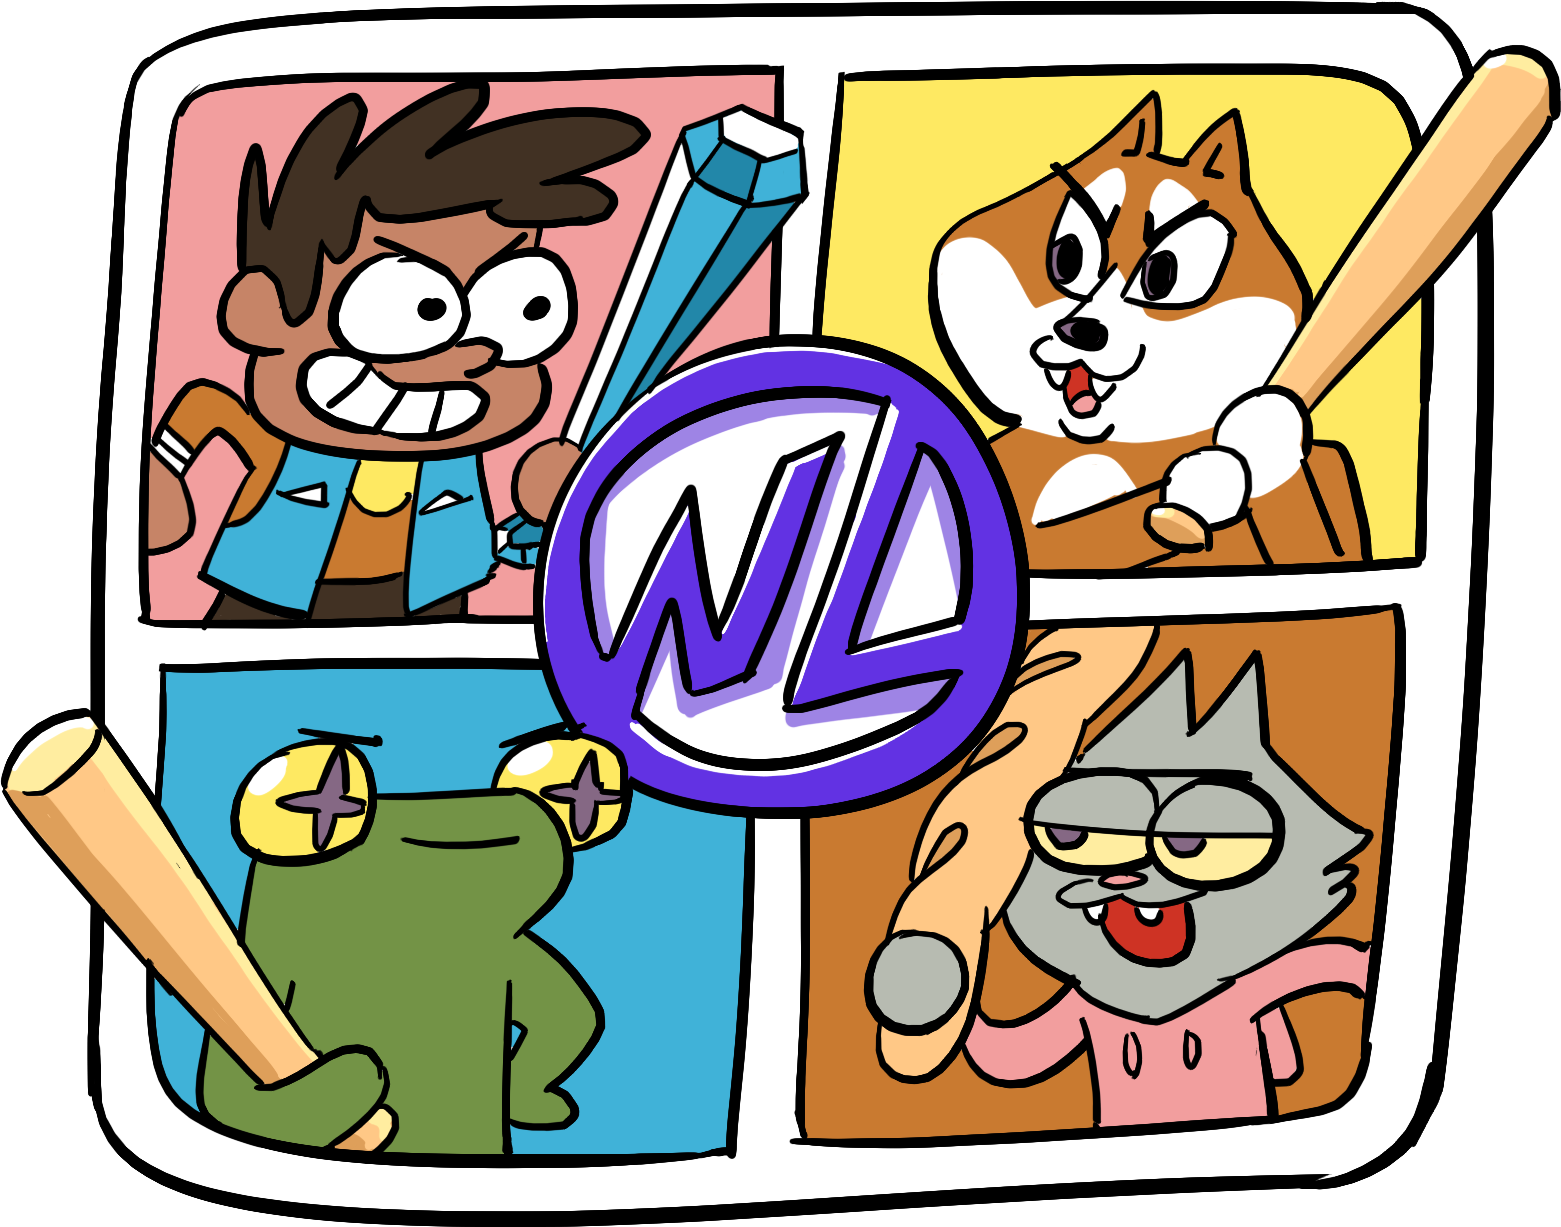
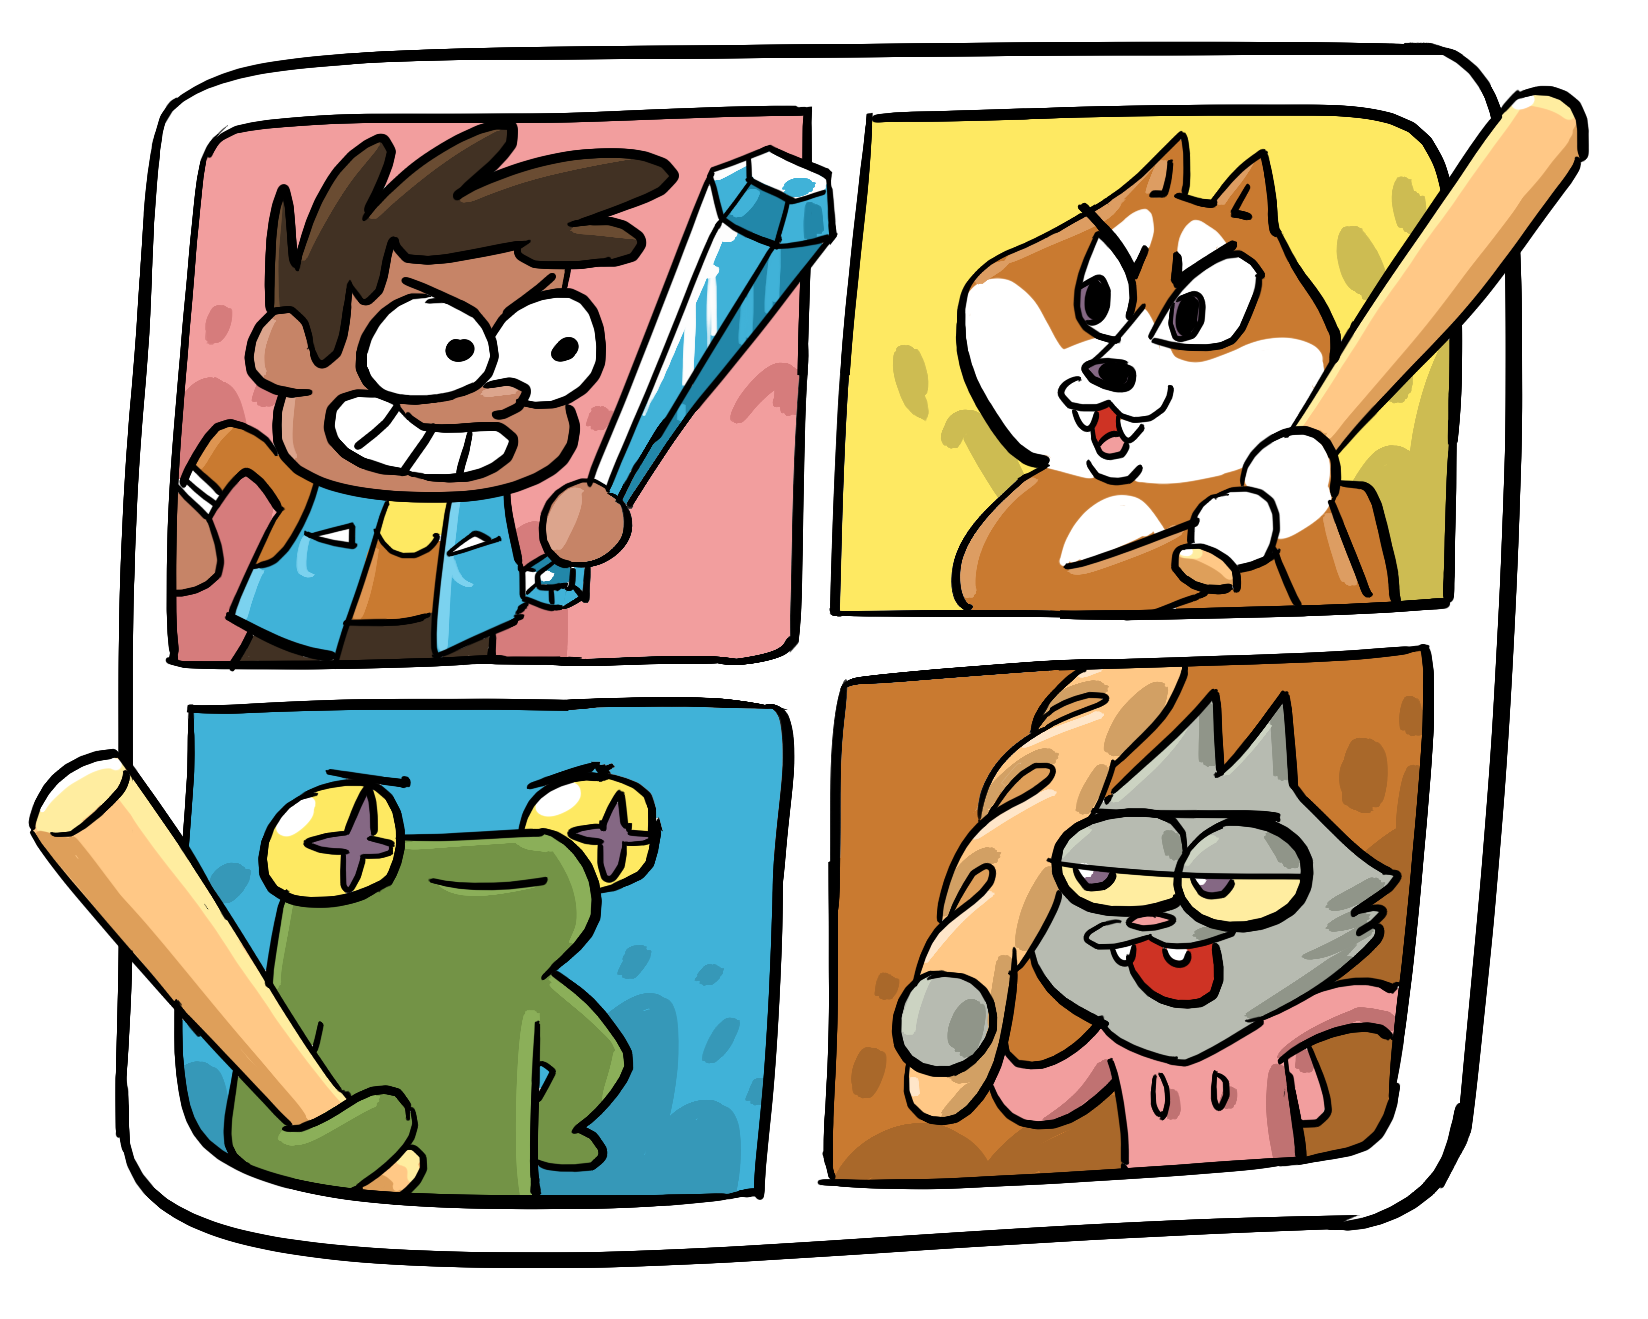
Add parallax animations

diff --git a/pages/index.tsx b/pages/index.tsx
@@ -28,20 +28,18 @@ const Home: NextPage = () => {
       <div className="p-0 position-relative home-intro">
         {md ? (
           <div>
-            <AnimatedWrapper parallax parallaxDirection="verticalScale">
-              <div className="parallax-child position-relative flex-grow-1 animation-zoomin">
-                <Image
-                  src="/img/home-hero-bg.png"
-                  alt="Nifty Home Banner"
-                  layout="responsive"
-                  width={3408}
-                  height={1849}
-                  priority
-                />
-              </div>
-            </AnimatedWrapper>
-            <AnimatedWrapper parallax parallaxDirection="verticalScale">
-              <div className="position-absolute parallax-child home-hero-characters-image flex-grow-1 animation-zoomin-large">
+            <div className="position-relative flex-grow-1 animation-zoomin">
+              <Image
+                src="/img/home-hero-bg.png"
+                alt="Nifty Home Banner"
+                layout="responsive"
+                width={3408}
+                height={1849}
+                priority
+              />
+            </div>
+            <AnimatedWrapper parallax parallaxDirection="top">
+              <div className="parallax-hero-child position-absolute home-hero-characters-image flex-grow-1 animation-zoomin-large">
                 <Image
                   src="/img/home-hero-characters.png"
                   alt="Nifty Hero Characters"
@@ -57,13 +55,14 @@ const Home: NextPage = () => {
                 <AnimatedWrapper>
                   <div className="animation-bounce animated-fade-start animated-fade transition-delay-extreme">
                     <Image
-                      src="/img/home-hero-companion.gif"
-                      alt="Home Hero Companion"
+                      src="/img/home-hero-companion-base.png"
+                      alt="Home Hero Companion Base"
                       layout="responsive"
                       width={436}
                       height={436}
                       className="pixelated"
                     />
+                    <div className="position-absolute home-hero-companion-swing animation-propeller" />
                   </div>
                 </AnimatedWrapper>
               </div>
@@ -161,7 +160,7 @@ const Home: NextPage = () => {
               </AnimatedWrapper>
               <div className="gaming-controller">
                 <AnimatedWrapper parallax parallaxDirection="bottom">
-                  <div className="animation-bounce animated-fade-start animated-fade transition-delay-extreme">
+                  <div className="animation-bounce animated-fade-start animated-fade transition-delay-large">
                     <Image
                       alt="Classic Gaming Reinvented Controller Left"
                       className="pixelated"
@@ -175,7 +174,7 @@ const Home: NextPage = () => {
               </div>
               <div className="gaming-controller">
                 <AnimatedWrapper parallax parallaxDirection="bottom">
-                  <div className="animation-bounce2 animated-fade-start animated-fade transition-delay-extreme">
+                  <div className="animation-bounce2 animated-fade-start animated-fade transition-delay-large">
                     <Image
                       alt="Classic Gaming Reinvented Controller Right"
                       className="pixelated"
@@ -252,7 +251,7 @@ const Home: NextPage = () => {
                 <div className="compete-to-earn-section-token-1">
                   <div className="position-relative flex-grow-1">
                     <AnimatedWrapper parallax parallaxDirection="left">
-                      <div className="animated-fade animated-fade-start transition-delay-large">
+                      <div className="animation-bounce-coin1 animated-fade animated-fade-start transition-delay-large">
                         <Image
                           src="/img/home-compete-and-earn-token-1.png"
                           alt="Compete and Earn NFTL 1"
@@ -270,13 +269,31 @@ const Home: NextPage = () => {
                 <div className="compete-to-earn-section-token-2">
                   <div className="position-relative flex-grow-1">
                     <AnimatedWrapper parallax parallaxDirection="right">
-                      <div className="animated-fade animated-fade-start transition-delay-large">
+                      <div className="animation-bounce-coin2 animated-fade animated-fade-start transition-delay-large">
                         <Image
                           src="/img/home-compete-and-earn-token-2.png"
                           alt="Compete and Earn NFTL 2"
                           layout="responsive"
                           width={398}
                           height={390}
+                          className="pixelated"
+                        />
+                      </div>
+                    </AnimatedWrapper>
+                  </div>
+                </div>
+              )}
+              {desktop && (
+                <div className="compete-to-earn-section-token-3">
+                  <div className="position-relative flex-grow-1">
+                    <AnimatedWrapper parallax parallaxDirection="top">
+                      <div className="animation-bounce-coin3 animated-fade animated-fade-start transition-delay-large">
+                        <Image
+                          src="/img/home-compete-and-earn-token-3.png"
+                          alt="Compete and Earn NFTL 3"
+                          layout="responsive"
+                          width={492}
+                          height={192}
                           className="pixelated"
                         />
                       </div>
@@ -353,11 +370,25 @@ const Home: NextPage = () => {
                     src="/img/home-compete-and-earn.png"
                     alt="Compete and Earn"
                     layout="responsive"
-                    width={1561}
-                    height={1227}
+                    width={1648}
+                    height={1319}
                   />
                 </div>
               </AnimatedWrapper>
+              <div className="position-absolute compete-to-earn-section-token-4">
+                <AnimatedWrapper parallax parallaxDirection="top">
+                  <div className="animated-fade-start animated-fade transition-delay-large">
+                    <Image
+                      alt="Compete and Earn NFTL Token"
+                      className="pixelated"
+                      width={641}
+                      height={640}
+                      layout="responsive"
+                      src="/img/home-compete-and-earn-token-4.png"
+                    />
+                  </div>
+                </AnimatedWrapper>
+              </div>
             </div>
           )}
         </div>
@@ -577,17 +608,47 @@ const Home: NextPage = () => {
             </div>
           </div>
           {desktop && (
-            <div className="col-6 text-align-right">
-              <AnimatedWrapper>
+            <div className="col-6 text-align-right position-relative">
+              <AnimatedWrapper parallax parallaxDirection="top">
                 <div className="position-relative quick-pop-anim quick-pop-anim-start transition-delay-medium">
                   <Image
-                    src="/img/home-nftl-token.png"
-                    alt="NFTL Token"
+                    src="/img/home-nftl-token-top.png"
+                    alt="NFTL Token Top"
                     width={1470}
                     height={1778}
                     layout="responsive"
                     className="pixelated"
                   />
+                  <div className="position-absolute home-nftl-token-image flex-grow-1 quick-pop-anim quick-pop-anim-start transition-delay-large">
+                    <Image
+                      src="/img/home-nftl-token-coin.png"
+                      alt="NFTL Token Coin"
+                      width={1470}
+                      height={1778}
+                      layout="responsive"
+                      className="pixelated"
+                    />
+                  </div>
+                  <div className="position-absolute animation-visible home-nftl-token-image flex-grow-1 transition-delay-large">
+                    <Image
+                      src="/img/home-nftl-token-tears.png"
+                      alt="NFTL Token Tears"
+                      width={1470}
+                      height={1778}
+                      layout="responsive"
+                      className="pixelated"
+                    />
+                  </div>
+                  <div className="position-absolute home-nftl-token-image flex-grow-1 quick-pop-anim quick-pop-anim-start transition-delay-large">
+                    <Image
+                      src="/img/home-nftl-token-bottom.png"
+                      alt="NFTL Token Bottom"
+                      width={1470}
+                      height={1778}
+                      layout="responsive"
+                      className="pixelated"
+                    />
+                  </div>
                   <div className="radial-gradient-background" />
                 </div>
               </AnimatedWrapper>

diff --git a/styles/app.css b/styles/app.css
@@ -793,11 +793,19 @@ a {
   left: 133px;
 }
 
-.home-hero-characters-image {
+.home-hero-characters-image, .home-nftl-token-image {
   width: 100%;
   height: 100%;
   bottom: 0px;
   right: 0px;
+}
+
+.home-hero-companion-swing {
+  width: 100%;
+  height: 100%;
+  left: 0px;
+  top: 0px;
+  background-size: cover;
 }
 
 .home-hero-companion {
@@ -926,6 +934,20 @@ a {
   top: 0px;
   width: 226px;
   height: 221px;  
+}
+
+.compete-to-earn-section-token-3 {
+  position: absolute;
+  bottom: -126px;
+  width: 246px;
+  z-index: -1;
+  left: calc(50% - 123px);
+}
+
+.compete-to-earn-section-token-4 {
+  width: 246px;
+  left: calc(50% - 123px);
+  top: calc(50% - 123px);
 }
 
 .text-align-center {
@@ -1154,11 +1176,23 @@ a {
     margin-right: auto;
   }
   .compete-to-earn-section-token-1 {
-    display: none;
+    width: 180px;
+    height: 185px;
+    left: -180px;
+    top: calc(50% - 90px)
   }
   .compete-to-earn-section-token-2 {
     width: 180px;
     height: 185px;
+  }
+  .compete-to-earn-section-token-3 {
+    width: 200px;
+    left: calc(50% - 100px);
+  }
+  .compete-to-earn-section-token-4 {
+    width: 200px;
+    left: calc(50% - 100px);
+    top: calc(50% - 100px);
   }
 }
 
@@ -1329,6 +1363,9 @@ a {
   }
   .home-community-section-description {
     max-width: 450px;
+  }
+  .compete-to-earn-section-token-1 {
+    display: none;
   }
   .compete-to-earn-section-token-2 {
     display: none;
@@ -2043,9 +2080,66 @@ a {
     animation-delay: .5s;
   }
 
+  .animation-bounce-coin1 {
+    animation: coin-bounce2 3s ease infinite;
+  }
+
+  .animation-bounce-coin2 {
+    animation: coin-bounce2 3s ease infinite;
+    animation-delay: .5s;
+  }
+
+  .animation-bounce-coin3 {
+    animation: coin-bounce2 3s ease infinite;
+    animation-delay: 1s;
+  }
+
+  .animation-propeller {
+    animation: propeller .5s ease infinite;
+  }
+
+  .animation-visible {
+    animation: visibility 2s ease infinite;
+  }
+
   @keyframes bounce {
     0%, 50%, 100% {transform: translateY(0);}
     25%, 75% {transform: translateY(-20px);}
+  }
+
+  @keyframes coin-bounce {
+    0%, 50%, 100% {transform: translateY(0);}
+    25%, 75% {transform: translateY(-60px);}
+  }
+
+  @keyframes coin-bounce2 {
+    0%, 20%, 50%, 80%, 100% {transform: translateY(0);}
+    40% {transform: translateY(-60px);}
+    60% {transform: translateY(-30px);}
+  }
+
+  @keyframes visibility {
+    0%, 50%, 100% {
+      opacity: 1;
+    }
+    25% {
+      opacity: 0;
+    }
+  }
+
+  @keyframes propeller {
+    0%, 100% {
+      background-image: url('/img/home-hero-companion-anim1.png');
+    }
+    25% {
+      background-image: url('/img/home-hero-companion-anim2.png');
+    }
+    50% {
+      background-image: url('/img/home-hero-companion-anim3.png');
+    }
+    75% {
+      background-image: url('/img/home-hero-companion-anim4.png');
+    }
   }
 
   .animation-zoomin {

diff --git a/components/AnimatedWrapper/index.tsx b/components/AnimatedWrapper/index.tsx
@@ -21,8 +21,6 @@ const AnimatedWrapper = ({
   parallaxDirection?: string;
 }) => {
   const ref: any = useRef<HTMLDivElement>();
-  const parallaxRef = useRef<boolean>();
-  const parallaxDirectionRef = useRef<string>();
   const onScreen: boolean = useOnScreen<HTMLDivElement>(ref, immediate ? '0px' : '-100px');
 
   useEffect(() => {
@@ -48,9 +46,15 @@ const AnimatedWrapper = ({
               parallaxChild.style.transform = `scale(${1 + scale})`;
             }
           } else if (parallaxDirection === 'top' || parallaxDirection === 'bottom') {
-            const translationY = (rect.top * 100) / window.innerHeight;
-            const direction = parallaxDirection === 'top' ? -2 : 2;
-            sectionElement.style.transform = `translateY(${translationY * direction}px)`;
+            const direction = parallaxDirection === 'top' ? -1 : 1;
+            const parallaxHeroChild = sectionElement.getElementsByClassName('parallax-hero-child')[0] as HTMLDivElement;
+            if (parallaxHeroChild) {
+              const translationY = window.scrollY / 3;
+              parallaxHeroChild.style.transform = `translateY(${translationY * direction}px)`;
+            } else {
+              const translationY = (rect.top * 100) / window.innerHeight;
+              sectionElement.style.transform = `translateY(${translationY * direction}px)`;
+            }
           } else {
             const translationX = (rect.top * 100) / window.innerHeight;
             const direction = parallaxDirection === 'left' ? -1 : 1;
